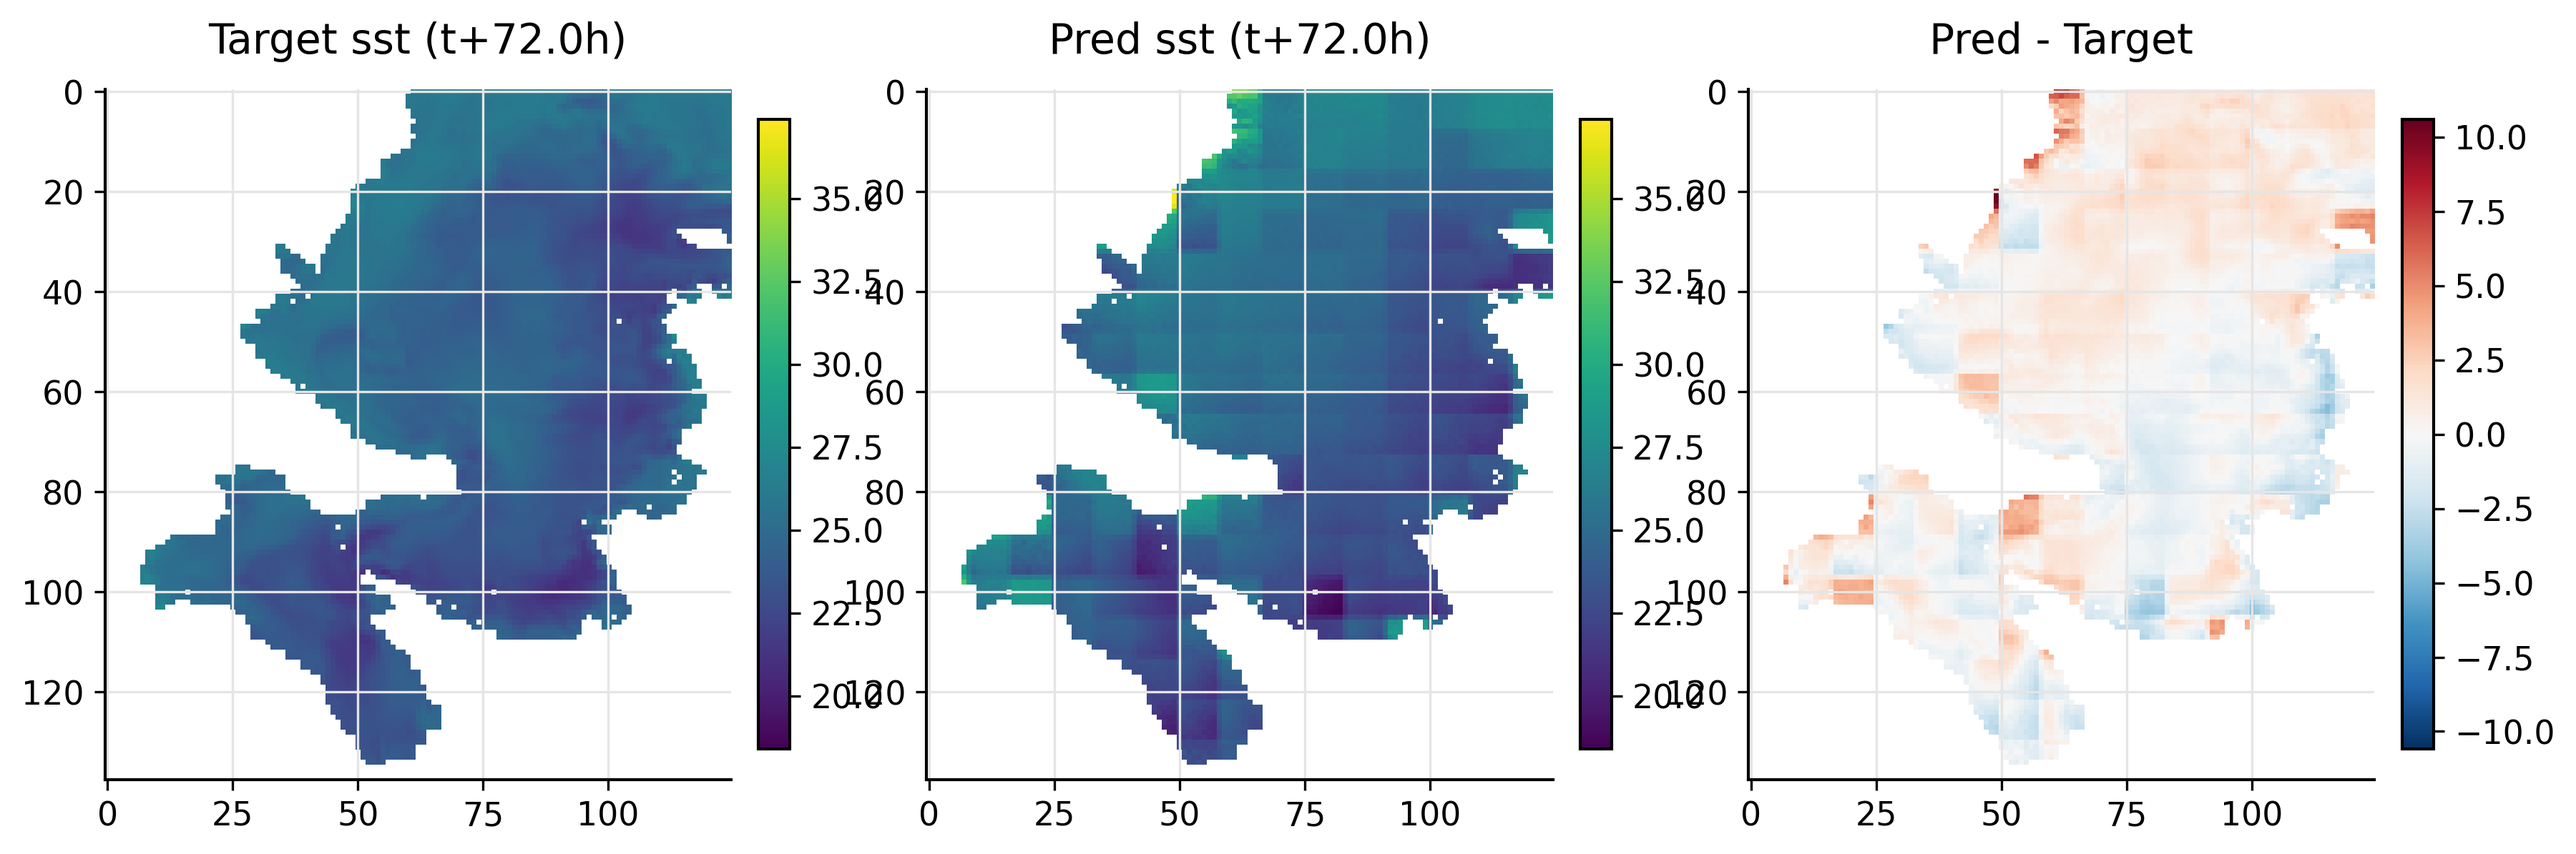
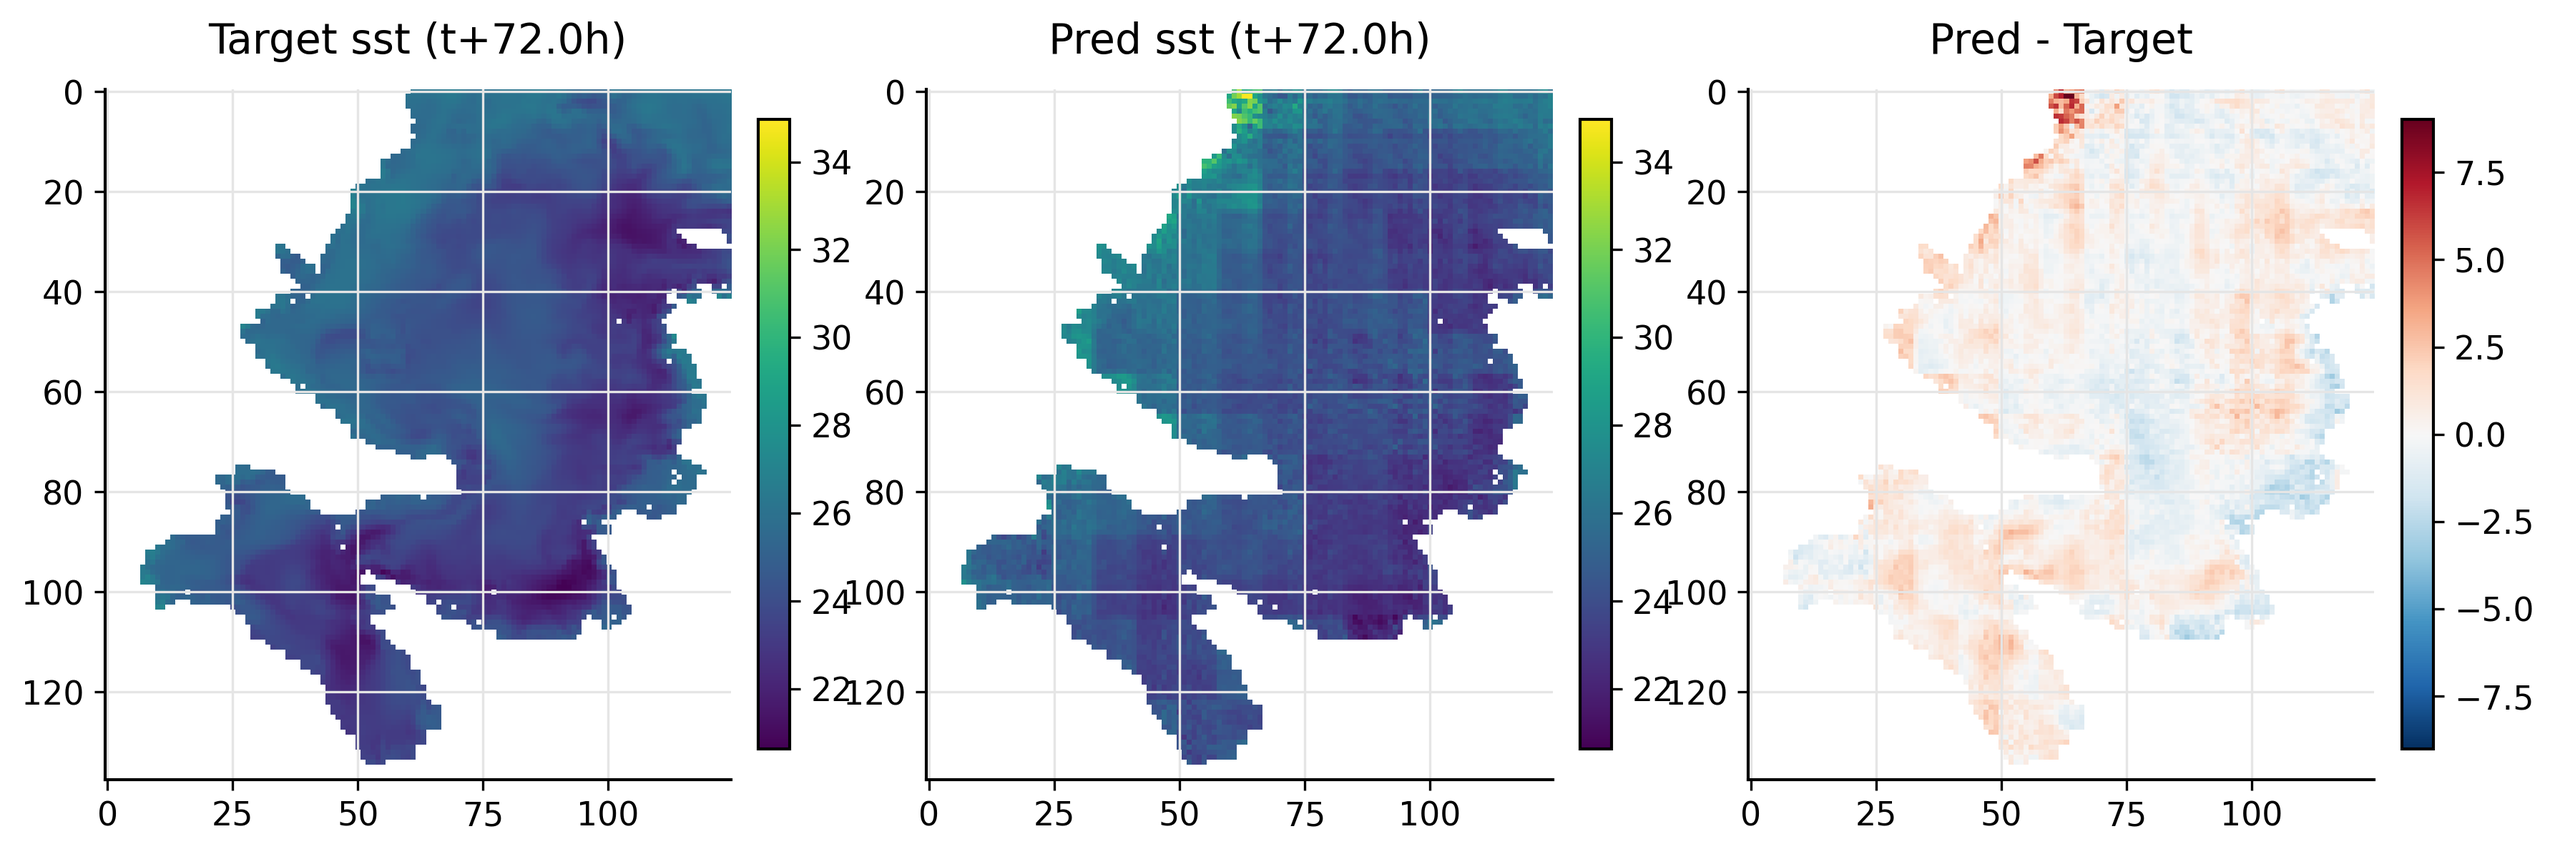
改变路径读取规则

diff --git a/src/element_forecasting/dataset.py b/src/element_forecasting/dataset.py
@@ -97,9 +97,16 @@ class ElementForecastWindowDataset(Dataset):
         self._open_ds_lru: OrderedDict[Path, Any] = OrderedDict()
         self._max_open_files = max(1, min(2, int(open_file_lru_size)))
 
-        self.path = Path(data_file or root / "data/processed/element_forecasting/all_clean_merged.nc")
+        self.path = Path(data_file or root / "data/processed/element_forecasting/path.txt")
         if not self.path.is_absolute():
             self.path = root / self.path
+            
+        if self.path.suffix == ".txt" and self.path.is_file():
+            actual_path_str = self.path.read_text(encoding="utf-8").strip()
+            self.path = Path(actual_path_str)
+            if not self.path.is_absolute():
+                self.path = root / self.path
+
         if not self.path.is_file():
             raise FileNotFoundError(f"dataset file not found: {self.path}")
 

diff --git a/src/data_preprocessing/merger.py b/src/data_preprocessing/merger.py
@@ -171,7 +171,10 @@ def run_merge_for_task(
         if limit is not None:
             files = files[: max(0, limit)]
         out = root / cfg["paths"]["processed"]["element_forecasting"] / "all_clean_merged.nc"
-        return [_merge_files(files, out, complevel)]
+        result = _merge_files(files, out, complevel)
+        path_txt = root / cfg["paths"]["processed"]["element_forecasting"] / "path.txt"
+        path_txt.write_text(str(result.resolve()), encoding="utf-8")
+        return [result]
 
     if task == TASK_ANOMALY:
         year_dirs = list_processed_anomaly(cfg, root)

diff --git a/src/element_forecasting/trainer.py b/src/element_forecasting/trainer.py
@@ -160,7 +160,7 @@ def run_training(args: argparse.Namespace) -> None:
 	data_file = Path(
 		args.data_file
 		or train_cfg.get("data_file")
-		or data_cfg.get("paths", {}).get("processed", {}).get("element_forecasting", "data/processed/element_forecasting/all_clean_merged.nc")
+		or data_cfg.get("paths", {}).get("processed", {}).get("element_forecasting", "data/processed/element_forecasting/path.txt")
 	)
 	if not data_file.is_absolute():
 		data_file = root / data_file

diff --git a/scripts/test_element/check_element_forecast_competition.py b/scripts/test_element/check_element_forecast_competition.py
@@ -8,7 +8,7 @@
 
 示例：
   python scripts/test_element/check_element_forecast_competition.py \
-    --data-file data/processed/element_forecasting/all_clean_merged.nc \
+    --data-file data/processed/element_forecasting/path.txt \
     --split test --time-step-hours 1 --eval-horizon-hours 72
 """
 from __future__ import annotations

diff --git a/README.md b/README.md
@@ -72,6 +72,7 @@ OceanRace/
 | `scripts/01_data_inspect.py` | 只读：抽样 `data/raw`，缺测率与最值（可 `--out JSON`） |
 | `scripts/02_preprocess.py` | 清洗 → `data/processed/`，可选整合大文件（`merge`）、划分与训练集标准化（`--steps`） |
 | `scripts/smoke_element_forecast.py` | 极少样本合成数据，跑 1 epoch 验证要素基线训练链路 |
+| `scripts/test_element/check_element_forecast_competition.py` | 要素预测比赛检查（单文件模式），支持滚动预测与重叠融合评估 |
 | `scripts/03_train_eddy.py` 等 | 训练/流水线/报告脚本（`03`–`07`）；要素预报用 `python scripts/04_train_forecast.py` |
 | `src/baseline/` | 基线实验代码（`PYTHONPATH=src`，如 `python -m baseline.element_forecasting.train`） |
 | `src/baseline/element_forecasting/README.md` | 要素 ConvLSTM 基线模块与运行方式 |
@@ -150,11 +151,34 @@ OceanRace/
 
 | 文件 | 要点 |
 |------|------|
-| `dataset.py` | 从 `data/processed/element_forecasting` 读 `*_clean.nc`；可选 split 与标准化 |
-| `model.py` | 注意力残差网络；多头自注意力；位置编码与残差 |
-| `trainer.py` | 多变量时序加载；序列到序列训练；早停与检查点 |
-| `predictor.py` | 输入约 10–15 天历史；输出未来 72 h（如 12 步）；可选不确定性 |
-| `evaluator.py` | MSE、RMSE、MAE；纳什效率系数；预测区间覆盖率 |
+| `dataset.py` | 单文件模式：读取 `all_clean_merged.nc`，按滑窗切样本并按时间比例切分 train/val/test |
+| `model.py` | 时空双轨 Transformer + block residual；多周期多谐波时间编码（`periodic_periods`/`periodic_harmonics`） |
+| `trainer.py` | 加权损失 + 空间均值约束；rollout 训练；scheduled sampling；梯度累积与 AMP |
+| `predictor.py` | 支持长时滚动预测与 overlap 线性融合（缓解 24h/48h 拼接台阶） |
+| `evaluator.py` | 掩膜 MSE/RMSE/MAE/NSE；按变量加权 MSE；空间均值约束损失 |
+
+**最新训练策略（已实现）**
+
+1. 变量加权与均值约束
+    - 训练损失中引入按变量权重加权的点位误差，提升 `sss`、`ssv` 的学习权重。
+    - 新增空间均值约束项，约束 `pred` 与 `target` 在每步每变量上的空间均值一致，抑制整体抬高偏置。
+
+2. Rollout 训练（多步对齐）
+    - 训练集标签长度扩展为 `model_output_steps * rollout_steps`。
+    - 每个 batch 内做多段前向并按 `rollout_gamma` 聚合段损失，强化多步稳定性。
+
+3. Scheduled Sampling
+    - 训练中段间输入按概率在“真实上一段标签 / 上一段预测”间混合。
+    - `epsilon` 按 epoch 衰减（支持 linear / cosine），缓解 teacher forcing 与推理不一致。
+
+4. 推理重叠融合
+    - 长时预测支持 `overlap_steps` 与线性融合，缓解分段拼接处的硬跳变。
+    - 比赛检查脚本已接入该能力，并可通过参数开关。
+
+**关键配置（`configs/element_forecasting/*.yaml`）**
+
+- 模型：`d_model`、`nhead`、`num_layers`、`spatial_downsample`、`periodic_periods`、`periodic_harmonics`
+- 训练：`rollout_steps`、`rollout_gamma`、`scheduled_sampling_*`、`overlap_*`、`var_loss_weights`、`loss_spatial_mean_weight`
 
 **指标：** 目标 MSE ≤15%；预测时长 72 小时；要素含温度、盐度、流速。
 

diff --git a/outputs/final_results/element_forecasting/competition_single_file/competition_summary.md b/outputs/final_results/element_forecasting/competition_single_file/competition_summary.md
@@ -2,15 +2,15 @@
 
 - Verdict: PASS
 - Horizon: 72.00 h (threshold >= 72.00 h)
-- Relative MSE: 0.1473% (threshold <= 15.0000%)
+- Relative MSE: 0.1199% (threshold <= 15.0000%)
 
 ## Metrics
 
-- MSE: 0.482233
-- RMSE: 0.694430
-- MAE: 0.326698
-- NSE: 0.997435
-- Relative MSE(%): 0.147269
+- MSE: 0.392642
+- RMSE: 0.626612
+- MAE: 0.298422
+- NSE: 0.997911
+- Relative MSE(%): 0.119909
 
 ## Files
 

diff --git a/src/element_forecasting/README.md b/src/element_forecasting/README.md
@@ -24,7 +24,7 @@
 ## 数据模式
 
 1. 单文件数据源
-   - 要素预测统一使用单个合并文件：data/processed/element_forecasting/all_clean_merged.nc。
+   - 要素预测统一使用单个合并文件，路径通过 `data/processed/element_forecasting/path.txt` 读取。
    - 旧的 manifest 多文件/跨文件拼接逻辑已移除。
 
 2. 滑窗采样
